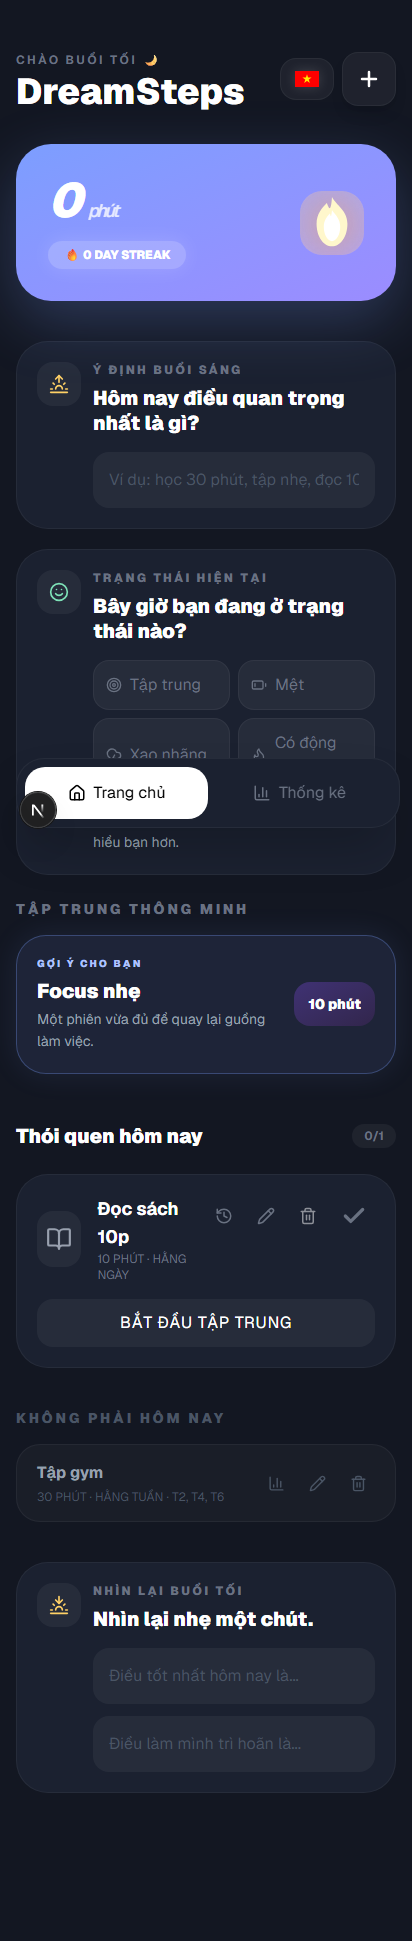
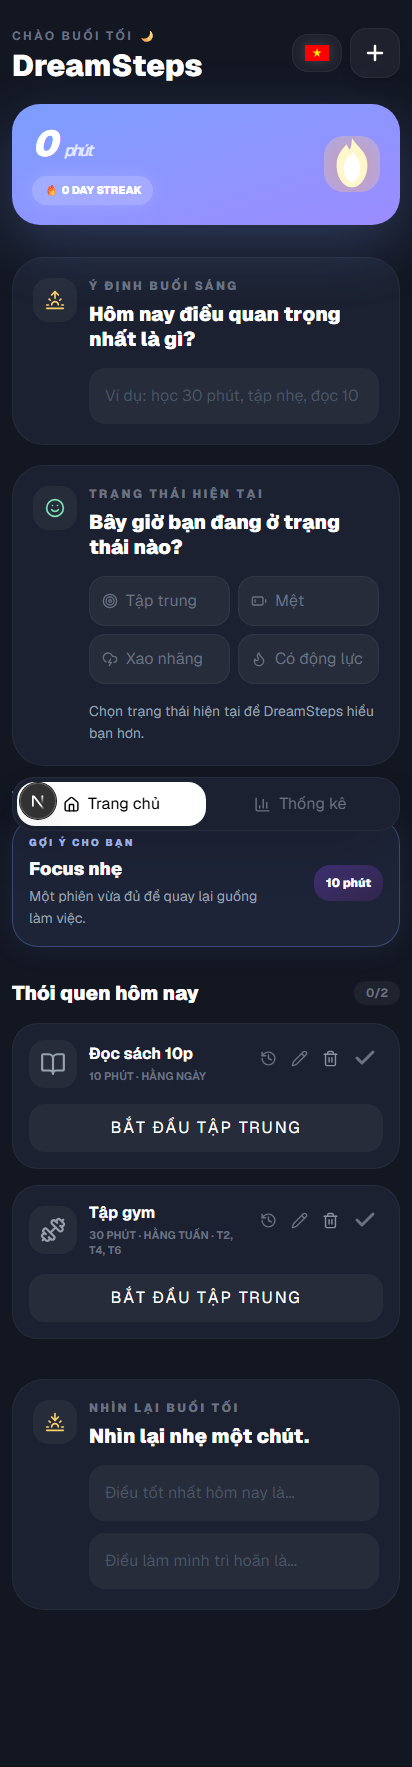
Optimize mobile home layout

diff --git a/components/HabitCard.tsx b/components/HabitCard.tsx
@@ -52,58 +52,58 @@ function HabitCard({
       initial={{ opacity: 0, scale: 0.9 }}
       animate={{ opacity: 1, scale: 1 }}
       exit={{ opacity: 0, scale: 0.9 }}
-      className={`rounded-[32px] border p-5 transition-all duration-500 ${
+      className={`rounded-[26px] border p-4 transition-all duration-500 sm:rounded-[32px] sm:p-5 ${
         isCelebrating
           ? "border-[#7EE2B8]/40 bg-[#7EE2B8]/10 shadow-[0_0_40px_rgba(126,226,184,0.12)] scale-[1.01]"
           : `border-white/5 ${surfaceClassName}`
       }`}
     >
-      <div className="flex items-start justify-between gap-3">
-        <div className="flex min-w-0 flex-1 gap-4 items-center">
-          <div className="h-14 w-14 flex items-center justify-center bg-white/5 rounded-2xl">
+      <div className="flex items-start justify-between gap-2 sm:gap-3">
+        <div className="flex min-w-0 flex-1 items-center gap-3 sm:gap-4">
+          <div className="flex h-12 w-12 shrink-0 items-center justify-center rounded-2xl bg-white/5 sm:h-14 sm:w-14">
             {icon}
           </div>
 
-          <div className="min-w-0">
+          <div className="min-w-0 flex-1">
             <h4
-              className={`break-words text-lg font-bold ${
+              className={`break-words text-base font-bold leading-snug sm:text-lg ${
                 habit.completed ? "line-through text-gray-500" : ""
               }`}
             >
               {habit.title}
             </h4>
-            <p className="text-xs text-gray-500 uppercase">
+            <p className="mt-1 text-[11px] font-bold uppercase leading-snug text-gray-500 sm:text-xs">
               {habit.minutes} {minutesLabel} · {frequencyLabel}
             </p>
           </div>
         </div>
 
-        <div className="flex gap-2">
+        <div className="flex shrink-0 gap-0.5 sm:gap-2">
           <button
             type="button"
             aria-label={`${detailsLabel} ${habit.title}`}
             onClick={onViewDetails}
-            className="p-2 text-gray-500 transition-colors hover:text-white"
+            className="p-1.5 text-gray-500 transition-colors hover:text-white sm:p-2"
           >
-            <History size={18} />
+            <History size={17} />
           </button>
 
           <button
             type="button"
             aria-label={`${editLabel} ${habit.title}`}
             onClick={onEdit}
-            className="p-2 text-gray-500 transition-colors hover:text-white"
+            className="p-1.5 text-gray-500 transition-colors hover:text-white sm:p-2"
           >
-            <Pencil size={18} />
+            <Pencil size={17} />
           </button>
 
           <button
             type="button"
             aria-label={`${deleteLabel} ${habit.title}`}
             onClick={onDelete}
-            className="opacity-50 hover:opacity-100 p-2 transition-opacity"
+            className="p-1.5 opacity-50 transition-opacity hover:opacity-100 sm:p-2"
           >
-            <Trash2 size={18} />
+            <Trash2 size={17} />
           </button>
 
           <motion.button
@@ -111,7 +111,7 @@ function HabitCard({
             type="button"
             aria-label={`${completeLabel} ${habit.title}`}
             onClick={onComplete}
-            className={`p-2 transition-all ${
+            className={`p-1.5 transition-all sm:p-2 ${
               habit.completed
                 ? "text-[#7EE2B8] scale-110"
                 : "text-gray-500 hover:text-white"
@@ -128,7 +128,7 @@ function HabitCard({
               }
               transition={{ duration: 0.5 }}
             >
-              <Check size={26} strokeWidth={3} />
+              <Check size={24} strokeWidth={3} />
             </motion.div>
           </motion.button>
         </div>
@@ -138,7 +138,7 @@ function HabitCard({
         <button
           type="button"
           onClick={onStartFocus}
-          className="mt-4 w-full bg-white/5 hover:bg-white/10 transition-colors py-3 rounded-2xl text-xs font-bold uppercase tracking-wider"
+          className="mt-4 w-full rounded-2xl bg-white/5 py-3 text-xs font-bold uppercase tracking-[0.12em] transition-colors hover:bg-white/10"
         >
           {startFocusLabel}
         </button>

diff --git a/app/page.tsx b/app/page.tsx
@@ -1980,17 +1980,17 @@ export default function HomePage() {
 
   return (
     <main
-  className={`min-h-screen ${currentTheme.background} text-white px-4 py-5 sm:p-5 font-sans transition-colors duration-700`}
+  className={`min-h-screen ${currentTheme.background} px-3 py-3 text-white transition-colors duration-700 sm:p-5 font-sans`}
 >
-  <div className="mx-auto w-full max-w-md md:max-w-2xl pb-32">
-        <header className="flex justify-between items-start pt-8">
+  <div className="mx-auto w-full max-w-md pb-[calc(9rem+env(safe-area-inset-bottom))] md:max-w-2xl">
+        <header className="flex items-start justify-between pt-4 sm:pt-8">
           <motion.div initial={{ opacity: 0, x: -20 }} animate={{ opacity: 1, x: 0 }}>
             {activeTab === "home" && (
   <p className="text-gray-500 text-xs font-bold tracking-[0.2em] uppercase">
     {greeting}
   </p>
 )}
-            <h1 className="text-4xl font-black mt-1">
+            <h1 className="mt-1 text-3xl font-black sm:text-4xl">
               {activeTab === "home" ? t.common.appName : t.common.stats}
             </h1>
           </motion.div>
@@ -2001,7 +2001,7 @@ export default function HomePage() {
               type="button"
               aria-label={t.common.changeLanguage}
               onClick={toggleLanguage}
-              className="rounded-2xl border border-white/5 bg-white/5 px-3.5 py-3 text-[11px] font-black uppercase tracking-[0.18em] text-gray-300 transition-colors hover:bg-white/10"
+              className="rounded-2xl border border-white/5 bg-white/5 px-3 py-2.5 text-[11px] font-black uppercase tracking-[0.18em] text-gray-300 transition-colors hover:bg-white/10 sm:px-3.5 sm:py-3"
             >
               <Image
                 src={language === "vi" ? "/flags/vn.svg" : "/flags/us.svg"}
@@ -2017,7 +2017,7 @@ export default function HomePage() {
                 type="button"
                 aria-label={t.header.addHabit}
                 onClick={openAddHabitSheet}
-                className="bg-white/5 p-3.5 rounded-2xl border border-white/5 shadow-lg hover:bg-white/10 transition-colors"
+                className="rounded-2xl border border-white/5 bg-white/5 p-3 shadow-lg transition-colors hover:bg-white/10 sm:p-3.5"
               >
                 <Plus size={24} strokeWidth={2.5} />
               </button>
@@ -2035,16 +2035,16 @@ export default function HomePage() {
               exit={{ opacity: 0 }}
               transition={{ duration: 0.16 }}
             >
-              <div className={`sticky top-0 z-40 -mx-5 mt-4 ${currentTheme.background} px-5 py-4 transition-colors duration-700 will-change-auto`}>
+              <div className={`sticky top-0 z-40 -mx-3 mt-3 ${currentTheme.background} px-3 py-2 transition-colors duration-700 will-change-auto sm:-mx-5 sm:mt-4 sm:px-5 sm:py-4`}>
                 <motion.div
                   initial={{ opacity: 0, y: 20 }}
                   animate={{ opacity: 1, y: 0 }}
-                  className={`rounded-[35px] bg-gradient-to-br ${currentTheme.primaryGradient} p-8 flex justify-between items-center ${currentTheme.primaryShadow} transition-all duration-700`}
+                  className={`flex items-center justify-between rounded-[28px] bg-gradient-to-br ${currentTheme.primaryGradient} p-5 ${currentTheme.primaryShadow} transition-all duration-700 sm:rounded-[35px] sm:p-8`}
                 >
                 <div>
-                  <h2 className="text-5xl font-black italic tracking-tighter">
+                  <h2 className="text-4xl font-black italic tracking-tighter sm:text-5xl">
                     <AnimatedCounter value={momentum} />
-                    <span className="text-lg font-medium ml-2 opacity-80">{t.common.shortMinutes}</span>
+                    <span className="ml-2 text-base font-medium opacity-80 sm:text-lg">{t.common.shortMinutes}</span>
                   </h2>
 
                   <motion.div
@@ -2052,13 +2052,13 @@ export default function HomePage() {
                     initial={{ scale: 0.92, opacity: 0.7 }}
                     animate={{ scale: 1, opacity: 1 }}
                     transition={{ type: "spring", stiffness: 300, damping: 15 }}
-                    className="mt-4 bg-white/20 px-4 py-1.5 rounded-full text-xs font-black uppercase inline-block shadow-[0_0_20px_rgba(255,255,255,0.15)]"
+                    className="mt-3 inline-block rounded-full bg-white/20 px-3 py-1.5 text-[11px] font-black uppercase shadow-[0_0_20px_rgba(255,255,255,0.15)] sm:mt-4 sm:px-4 sm:text-xs"
                   >
                     🔥 <AnimatedCounter value={streak} /> Day Streak
                   </motion.div>
                 </div>
 
-                <div className="relative h-16 w-16 rounded-[22px] bg-white/20 flex items-center justify-center overflow-hidden">
+                <div className="relative flex h-14 w-14 shrink-0 items-center justify-center overflow-hidden rounded-[20px] bg-white/20 sm:h-16 sm:w-16 sm:rounded-[22px]">
                   <motion.div
                     animate={{
                       opacity: [0.2, 0.45, 0.2],
@@ -2146,8 +2146,8 @@ export default function HomePage() {
                 </div>
               )}
 
-              <section className="mt-12">
-                <div className="mb-6 flex items-center justify-between">
+              <section className="mt-8 sm:mt-12">
+                <div className="mb-4 flex items-center justify-between sm:mb-6">
                   <h3 className="text-xl font-black">{t.habits.today}</h3>
                   <div className="rounded-full bg-white/5 px-3 py-1 text-xs font-bold text-gray-500">
                     {todayHabits.filter((habit) => habit.completed).length}/{todayHabits.length}

diff --git a/components/BottomNav.tsx b/components/BottomNav.tsx
@@ -24,31 +24,31 @@ function BottomNav({
   return (
     <nav
       aria-label="Main navigation"
-      className={`fixed bottom-[calc(1.25rem+env(safe-area-inset-bottom))] left-1/2 z-50 flex w-[calc(100%-32px)] max-w-md md:max-w-xl -translate-x-1/2 items-center justify-between rounded-[28px] border border-white/5 ${surfaceClassName} p-2 backdrop-blur-xl shadow-2xl will-change-transform`}
+      className={`fixed bottom-[calc(0.5rem+env(safe-area-inset-bottom))] left-1/2 z-50 flex w-[calc(100%-24px)] max-w-md -translate-x-1/2 items-center justify-between rounded-[22px] border border-white/5 ${surfaceClassName} p-1 shadow-2xl backdrop-blur-xl will-change-transform md:max-w-xl sm:bottom-[calc(1.25rem+env(safe-area-inset-bottom))] sm:w-[calc(100%-32px)] sm:rounded-[28px] sm:p-2`}
     >
       <button
         type="button"
         onClick={() => onChangeTab("home")}
-        className={`flex flex-1 items-center justify-center gap-2 rounded-[20px] py-3.5 sm:py-4 text-sm font-black transition-all duration-300 ${
+        className={`flex flex-1 items-center justify-center gap-2 rounded-[18px] py-2.5 text-sm font-black transition-all duration-300 sm:rounded-[20px] sm:py-4 ${
           activeTab === "home"
             ? "bg-white text-black"
             : "text-gray-500 hover:text-white"
         }`}
       >
-        <House size={18} />
+        <House size={17} />
         {homeLabel}
       </button>
 
       <button
         type="button"
         onClick={() => onChangeTab("stats")}
-        className={`flex flex-1 items-center justify-center gap-2 rounded-[20px] py-3.5 sm:py-4 text-sm font-black transition-all duration-300 ${
+        className={`flex flex-1 items-center justify-center gap-2 rounded-[18px] py-2.5 text-sm font-black transition-all duration-300 sm:rounded-[20px] sm:py-4 ${
           activeTab === "stats"
             ? "bg-white text-black"
             : "text-gray-500 hover:text-white"
         }`}
       >
-        <BarChart3 size={18} />
+        <BarChart3 size={17} />
         {statsLabel}
       </button>
     </nav>

diff --git a/components/SmartFocusCard.tsx b/components/SmartFocusCard.tsx
@@ -34,8 +34,8 @@ function SmartFocusCard({
   onStartSuggested,
 }: SmartFocusCardProps) {
   return (
-    <section className="mt-6">
-      <div className="mb-4 flex items-center justify-between">
+    <section className="mt-5 sm:mt-6">
+      <div className="mb-3 flex items-center justify-between sm:mb-4">
         <h3 className="text-sm font-black uppercase tracking-[0.2em] text-gray-500">
           {title}
         </h3>
@@ -45,7 +45,7 @@ function SmartFocusCard({
         whileTap={{ scale: 0.98 }}
         type="button"
         onClick={onStartSuggested}
-        className={`w-full rounded-[30px] border ${accentBorderClassName} ${accentBgClassName} p-5 text-left shadow-[0_0_30px_rgba(124,158,255,0.1)] transition-all duration-700`}
+        className={`w-full rounded-[26px] border ${accentBorderClassName} ${accentBgClassName} p-4 text-left shadow-[0_0_30px_rgba(124,158,255,0.1)] transition-all duration-700 sm:rounded-[30px] sm:p-5`}
       >
         <div className="flex items-center justify-between gap-3">
           <div className="min-w-0 flex-1">
@@ -55,7 +55,7 @@ function SmartFocusCard({
               {suggestedLabel}
             </p>
 
-            <h3 className="mt-2 text-xl font-black leading-tight">
+            <h3 className="mt-2 text-lg font-black leading-tight sm:text-xl">
               {suggestedSession.title}
             </h3>
 
@@ -65,7 +65,7 @@ function SmartFocusCard({
           </div>
 
           <div
-            className={`shrink-0 rounded-2xl bg-gradient-to-br ${suggestedSession.accent} px-3.5 py-3 text-sm font-black sm:px-4`}
+            className={`shrink-0 rounded-2xl bg-gradient-to-br ${suggestedSession.accent} px-3 py-2.5 text-xs font-black sm:px-4 sm:py-3 sm:text-sm`}
           >
             {suggestedSession.minutes} {minutesLabel}
           </div>